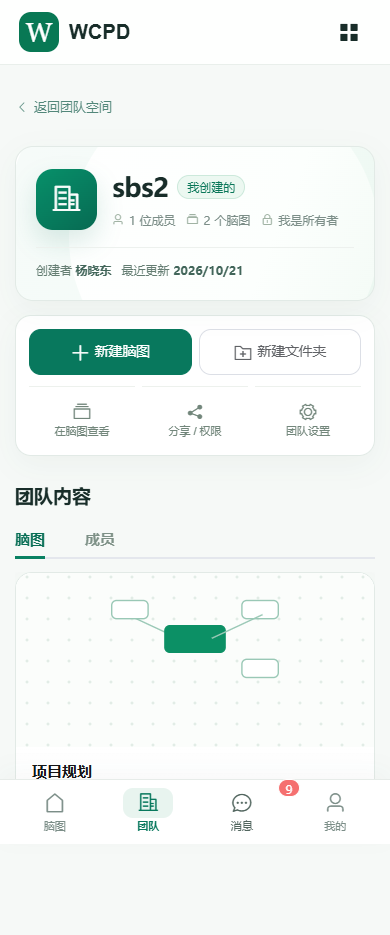
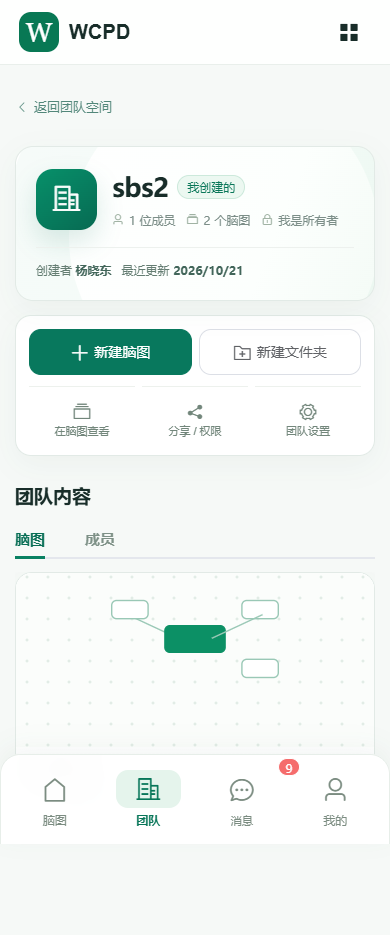
重构(ProductShellLayout)：简化 mobileBottomNav 样式并提升响应式表现

diff --git a/web/src/pages/ProductShell/components/ProductShellLayout.vue b/web/src/pages/ProductShell/components/ProductShellLayout.vue
@@ -1157,7 +1157,6 @@ export default {
     .mobileShellHeader > button.detailLauncher:last-child { margin-left: auto; }
     .mobileBrandMark { width: 40px; height: 40px; border-radius: 12px; font-size: 27px; font-family: Georgia,serif; }
     .mobileShellHeader strong { font-size: 20px; }
-    .mobileBottomNav { min-height: 65px; box-shadow: 0 -8px 24px #214c3a08; }
   }
 }
 </style>
@@ -1175,12 +1174,6 @@ export default {
     .mobilePageTitle { font-size: 27px; font-weight: 750; letter-spacing: -.6px; white-space: nowrap; }
     .mobileShellHeader .userAvatar { width: 45px !important; height: 45px !important; font-size: 19px !important; background: linear-gradient(135deg,#159c77,#087255); }
     .mobileShellHeader i { font-size: 26px; }
-    .mobileBottomNav { left: 50%; right: auto; transform: translateX(-50%); width: 100%; max-width: 640px; min-height: 85px; padding: 11px 16px calc(12px + env(safe-area-inset-bottom)); border: 1px solid #e7eee9; border-bottom: 0; border-radius: 20px 20px 0 0; background: rgba(255,255,255,.96); backdrop-filter: blur(16px); box-shadow: 0 -7px 25px rgba(42,74,56,.052); }
-    .mobileBottomNav > a, .mobileBottomNav .notificationButton { min-height: 62px; font-size: 12px; gap: 4px; color: #7b8c81; }
-    .mobileBottomNav i { display: grid; place-items: center; width: 65px; height: 38px; font-size: 27px; box-sizing: border-box; }
-    .mobileBottomNav .notificationButton i { font-size: 27px; }
-    .mobileBottomNav .router-link-active { color: #087659; font-weight: 700; }
-    .mobileBottomNav .router-link-active i { padding: 0; margin: 0; border-radius: 12px; background: #e5f4ec; }
   }
 }
 @media (max-width: 470px) {
@@ -1192,8 +1185,23 @@ export default {
     .mobileBrandMark { width: 46px; height: 46px; border-radius: 14px; font-size: 31px; }
     .mobilePageTitle { font-size: 23px; }
     .mobileShellHeader .userAvatar { width: 39px !important; height: 39px !important; font-size: 16px !important; }
-    .mobileBottomNav { padding-inline: 7px; }
   }
 }
 @media (max-width: 355px) { .productShell--teams .mobilePageTitle { font-size: 20px; } }
+</style>
+<style lang="less">
+// Navigation geometry stays identical across routes; only selection colors change.
+@media (max-width: 767px) {
+  .productShell .mobileBottomNav {
+    left: 50%; right: auto; transform: translateX(-50%); width: 100%; max-width: 640px;
+    min-height: 85px; padding: 11px 16px calc(12px + env(safe-area-inset-bottom));
+    border: 1px solid #e7eee9; border-bottom: 0; border-radius: 20px 20px 0 0;
+    background: rgba(255,255,255,.96); backdrop-filter: blur(16px); box-shadow: 0 -7px 25px rgba(42,74,56,.052);
+    > a, .notificationButton { min-height: 62px; font-size: 12px; gap: 4px; color: #7b8c81; }
+    i, .notificationButton i { display: grid; place-items: center; width: 65px; height: 38px; font-size: 27px; box-sizing: border-box; padding: 0; margin: 0; border-radius: 12px; }
+    .router-link-active { color: #087659; font-weight: 700; }
+    .router-link-active i { padding: 0; margin: 0; background: #e5f4ec; border-radius: 12px; }
+  }
+}
+@media (max-width: 470px) { .productShell .mobileBottomNav { padding-inline: 7px; } }
 </style>
